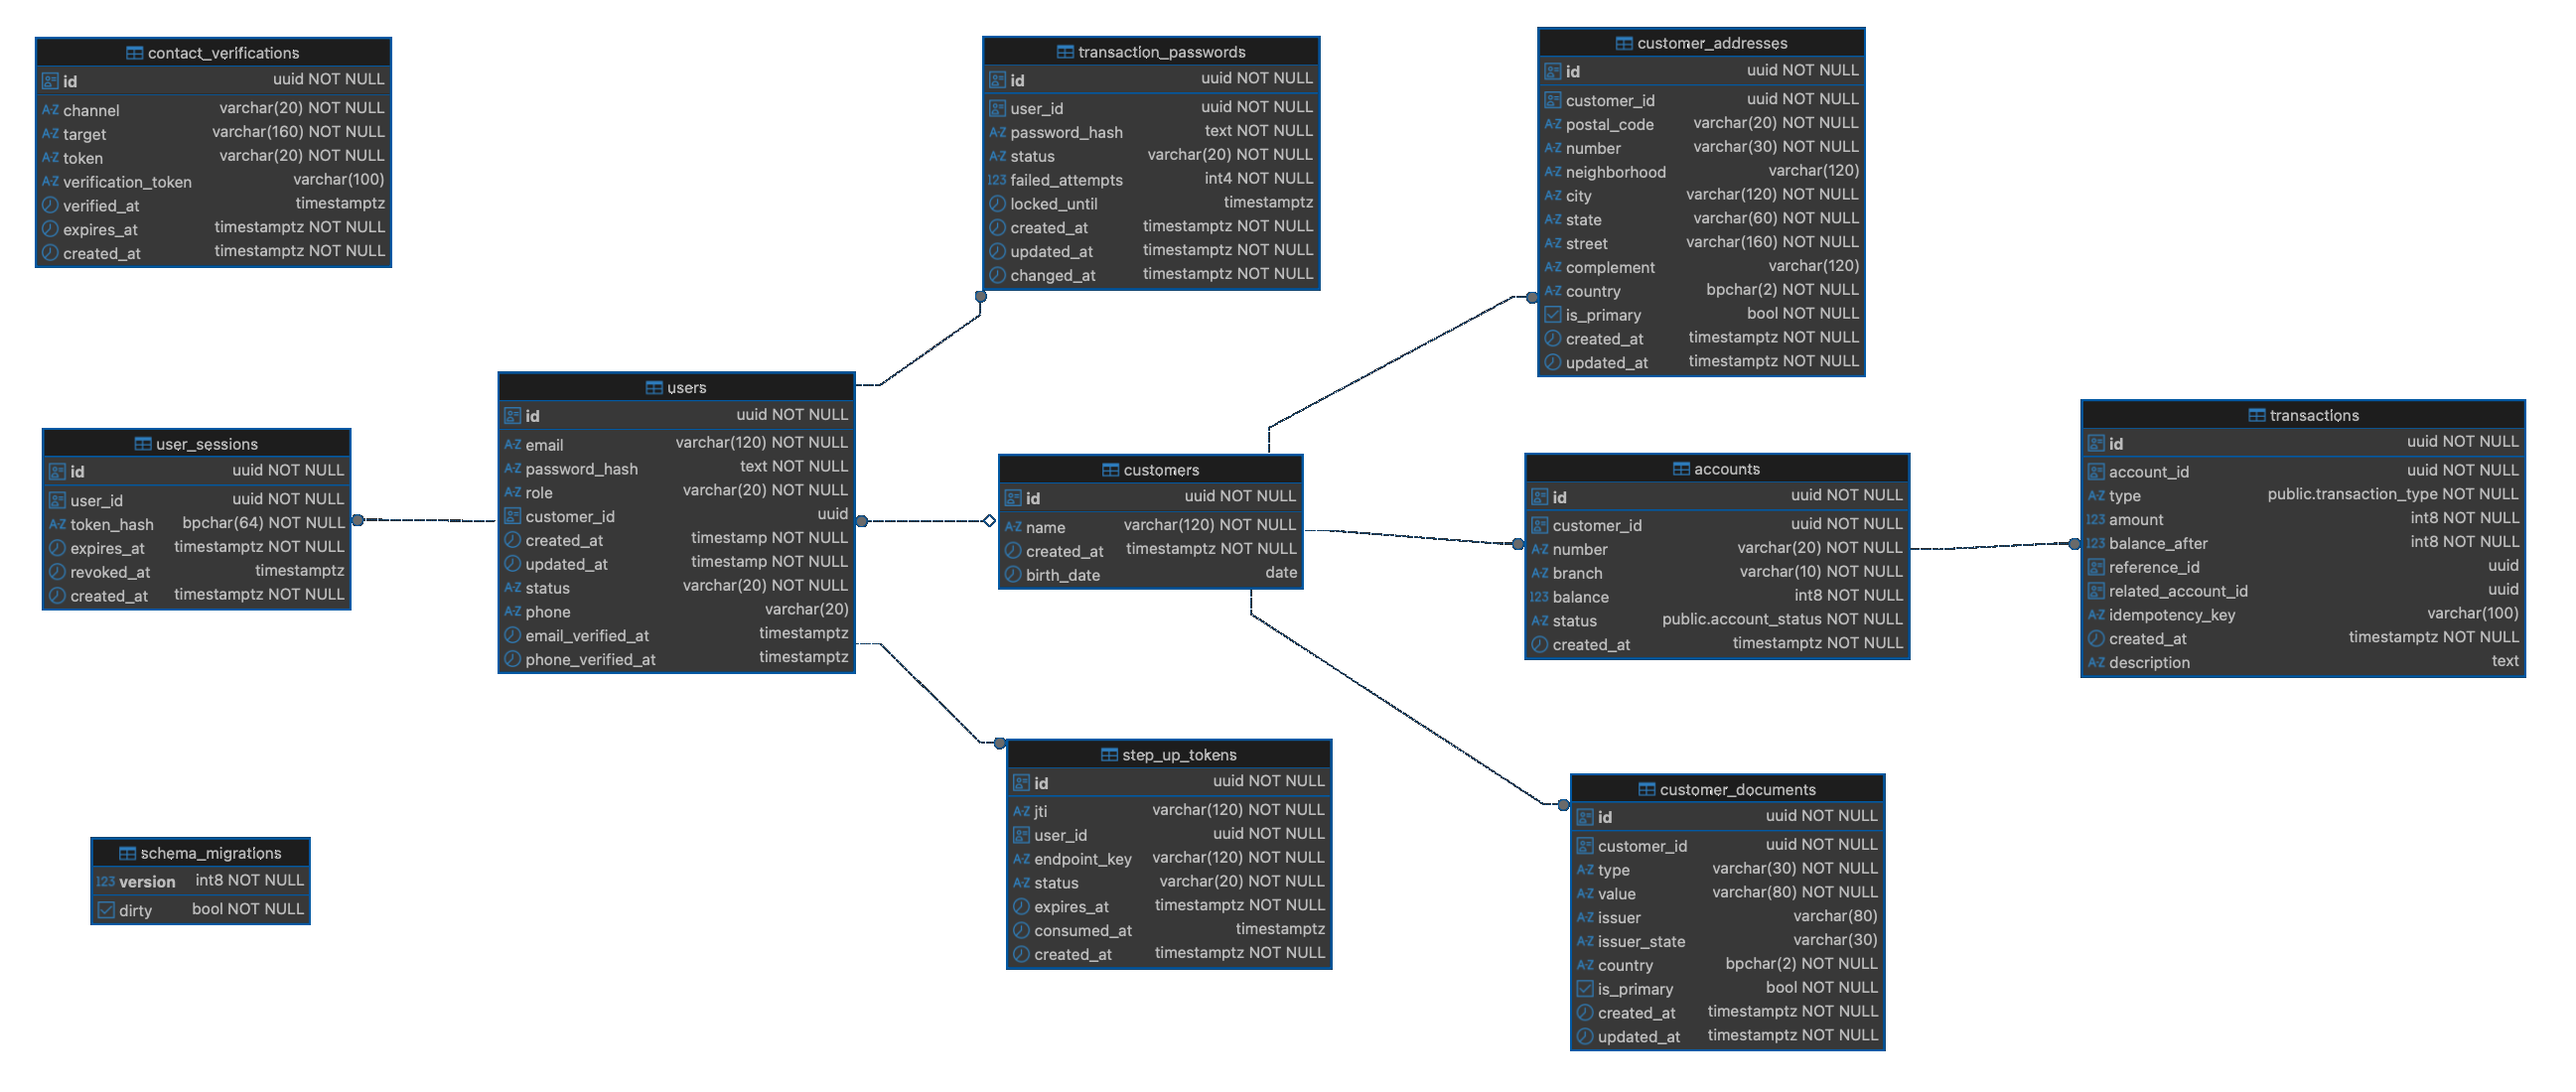
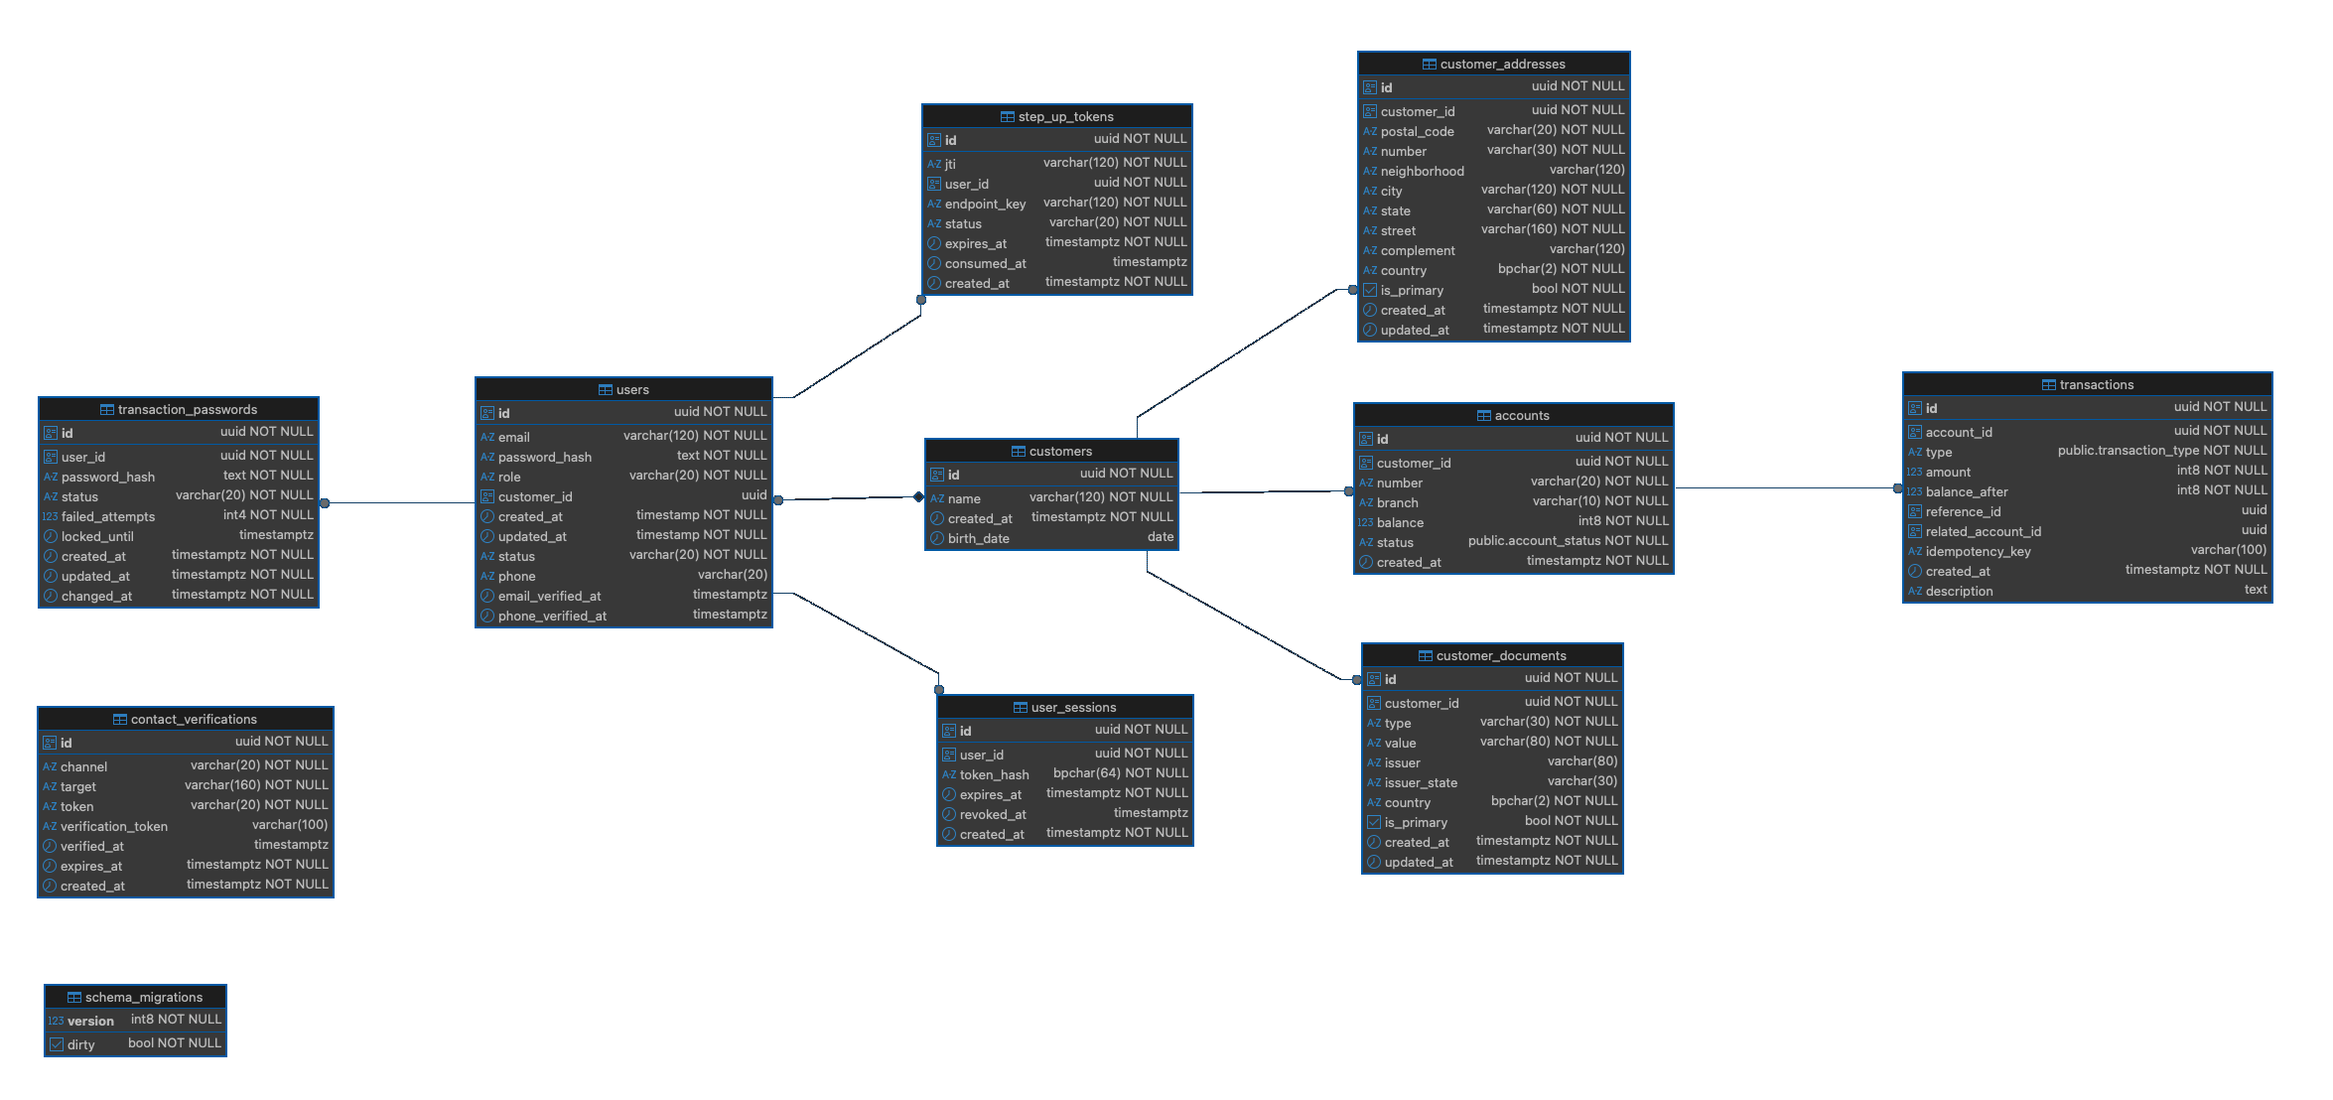
## 2026/06/15 - mobile/transactional-password-10
This update refines the transfer completion experience by standardizing the available actions presented after a transaction result. The changes focus on improving navigation consistency and providing users with clearer next steps following successful or failed transfer operations.

The update affects the transfer status screen and its action controls, replacing the previous mixed button layouts with a unified dual-action approach.

1. **mobile/lib/ui/pages/transfer/transfer_status_page.dart**

   * Replaced the single-button failure state with a dual-action button layout.
   * Standardized successful and failed transfer screens to use the same bottom action component.
   * Updated success actions to provide direct navigation to the home screen through a "Cancel" option while preserving receipt access.
   * Added a retry action for failed transfers through a "Again" button with refresh icon support.
   * Introduced a dedicated home navigation method and separated it from back navigation behavior.
   * Removed the dependency on the standalone `BigButton` component, simplifying action handling on the page.

2. **api/docs/images/database.png**

   * Updated the database diagram documentation image.
   * Refreshed visual documentation assets to reflect the current project state.

### Conclusion

This change improves the transfer result workflow by making post-transaction actions more consistent across success and failure scenarios.
[…]

diff --git a/mobile/lib/ui/pages/transfer/transfer_status_page.dart b/mobile/lib/ui/pages/transfer/transfer_status_page.dart
@@ -3,7 +3,6 @@ import 'package:go_router/go_router.dart';
 
 import '/core/routing/routes.dart';
 import '/ui/components/base/safe_scaffold.dart';
-import '/ui/components/buttons/big_button.dart';
 import '/ui/components/buttons/double_bottom_buttons.dart';
 
 class TransferStatusPage extends StatelessWidget {
@@ -61,22 +60,27 @@ class TransferStatusPage extends StatelessWidget {
       ),
       bottomNavigationBar: isSuccess
           ? DoubleBottomButton(
-              leftButtonLabel: 'Voltar',
+              leftButtonLabel: 'Cancelar',
               rightButtonLabel: 'Comprovante',
-              leftOnPressed: () => _navBack(context),
+              leftOnPressed: () => _navHome(context),
               rightOnPressed: () => _showReceipt(context),
               isRightEnabled: transactionReference != null,
               rightButtonIcon: const Icon(Icons.receipt_long_rounded),
             )
-          : BigButton(
-              label: 'Voltar',
-              onPressed: () => _navBack(context),
-              enabled: true,
+          : DoubleBottomButton(
+              leftButtonLabel: 'Cancelar',
+              rightButtonLabel: 'Novamente',
+              leftOnPressed: () => _navHome(context),
+              rightOnPressed: () => _navBack(context),
+              isRightEnabled: true,
+              rightButtonIcon: const Icon(Icons.refresh_rounded),
             ),
     );
   }
 
-  void _navBack(BuildContext context) {
+  void _navBack(BuildContext context) => context.pop();
+
+  void _navHome(BuildContext context) {
     context.goNamed(BaseRoutes.home.routeName);
   }
 

diff --git a/CHANGELOG.md b/CHANGELOG.md
@@ -1,6 +1,35 @@
 # Changelog
 
-## 2026/06/13 - mobile/transactional-password-08
+## 2026/06/15 - mobile/transactional-password-10
+
+This update refines the transfer completion experience by standardizing the available actions presented after a transaction result. The changes focus on improving navigation consistency and providing users with clearer next steps following successful or failed transfer operations.
+
+The update affects the transfer status screen and its action controls, replacing the previous mixed button layouts with a unified dual-action approach.
+
+1. **mobile/lib/ui/pages/transfer/transfer_status_page.dart**
+
+   * Replaced the single-button failure state with a dual-action button layout.
+   * Standardized successful and failed transfer screens to use the same bottom action component.
+   * Updated success actions to provide direct navigation to the home screen through a "Cancel" option while preserving receipt access.
+   * Added a retry action for failed transfers through a "Again" button with refresh icon support.
+   * Introduced a dedicated home navigation method and separated it from back navigation behavior.
+   * Removed the dependency on the standalone `BigButton` component, simplifying action handling on the page.
+
+2. **api/docs/images/database.png**
+
+   * Updated the database diagram documentation image.
+   * Refreshed visual documentation assets to reflect the current project state.
+
+### Conclusion
+
+This change improves the transfer result workflow by making post-transaction actions more consistent across success and failure scenarios.
+
+Users now have clearer navigation options, including direct access to the home screen and the ability to retry failed transfers without relying on a different interaction pattern.
+
+The update also includes a refreshed database diagram to keep project documentation aligned with the current implementation.
+
+
+## 2026/06/13 - mobile/transactional-password-09
 
 Implements the guarded step-up behavior for internal transfers, refining how transactional password errors are handled after confirmation and strengthening route safety for sensitive transfer and password setup screens.
 
